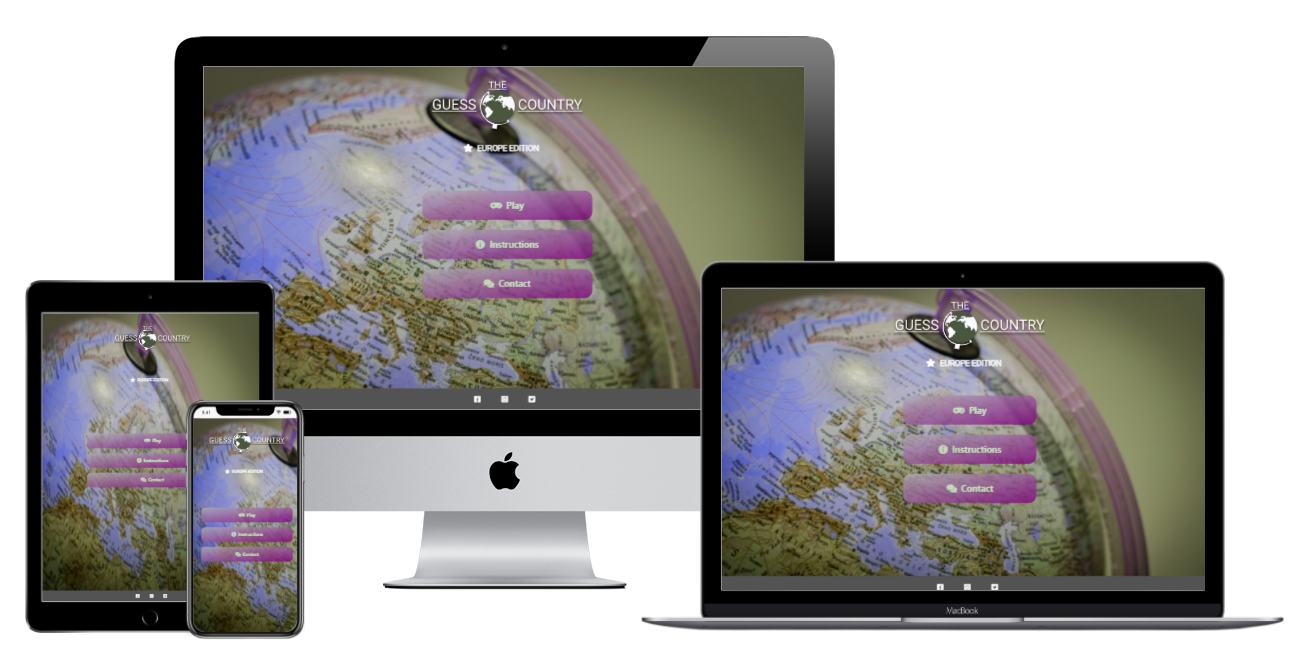
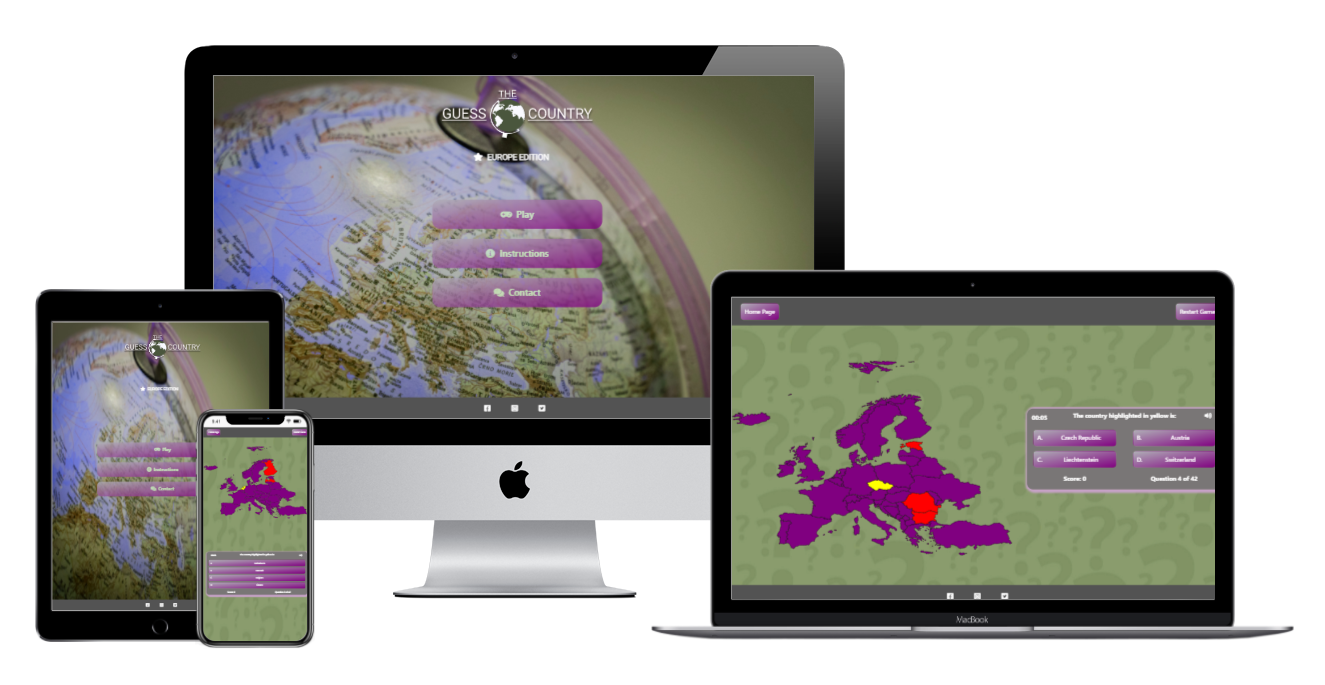
Replaced mockup picture with one that shows game page as well as first page

diff --git a/README.md b/README.md
@@ -1,6 +1,6 @@
-# Guess The Country
+# Guess The Country- Europe Edition!
 
-![Guess The Country Mockup Images](assets/images/mockup.png)
+![Guess The Country Mockup Images](/assets/images/mockup.PNG)
 
 [View the live project here](https://cosminaserbanica.github.io/CI-MS2-GuessTheCountry/)
 
